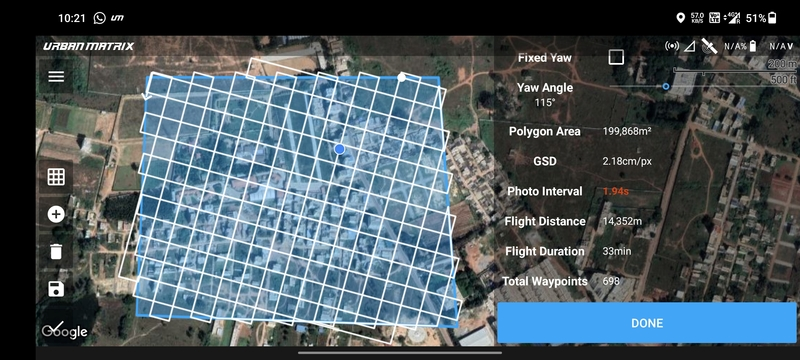
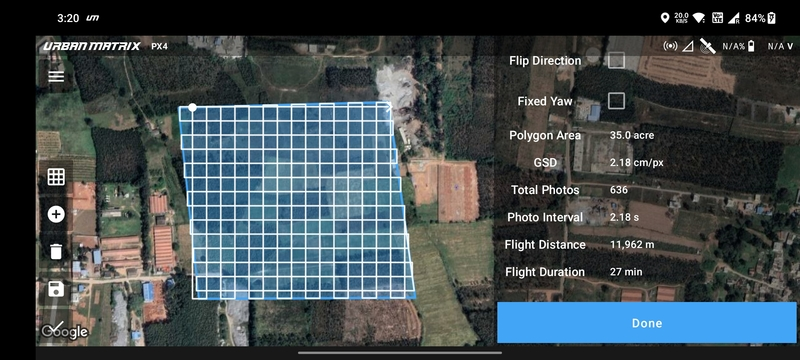
Update grid mission photos and params

diff --git a/docs/launchpad/mission-planning/double-grid-photo.md b/docs/launchpad/mission-planning/double-grid-photo.md
@@ -45,6 +45,7 @@ You can add or edit vertices as mentioned in [Mission Planning Screen](../overvi
 The following parameters are available for a `Double Grid Photo` mission:
 
 - `Altitude`
+- `RTL Altitude`
 - `Speed`
 - `Camera`: Available camera types.
 - `Front Overlap`: Percentage longitudinal overlap between the images.
@@ -61,10 +62,10 @@ Based on the parameters selected, the following values are calculated and displa
 
 - `Polygon Area`
 - `GSD`: Ground sampling distance.
+- `Total Waypoints`: Estimated photos count.
 - `Photo Interval`: Time interval between two consecutive photos.
 - `Flight Distance`
 - `Flight Duration`
-- `Total Waypoints`: Estimated photos count.
 
 ![Data](img/double-grid-photo-data.jpg)
 

diff --git a/docs/launchpad/mission-planning/single-grid-photo.md b/docs/launchpad/mission-planning/single-grid-photo.md
@@ -45,6 +45,7 @@ You can add or edit vertices as mentioned in [Mission Planning Screen](../overvi
 The following parameters are available for a `Single Grid Photo` mission:
 
 - `Altitude`
+- `RTL Altitude`
 - `Speed`
 - `Camera`: Available camera types.
 - `Front Overlap`: Percentage longitudinal overlap between the images.
@@ -61,10 +62,10 @@ Based on the parameters selected, the following values are calculated and displa
 
 - `Polygon Area`
 - `GSD`: Ground sampling distance.
+- `Total Photos`: Estimated photos count.
 - `Photo Interval`: Time interval between two consecutive photos.
 - `Flight Distance`
 - `Flight Duration`
-- `Total Waypoints`: Estimated photos count.
 
 ![Data](img/single-grid-photo-data.jpg)
 
